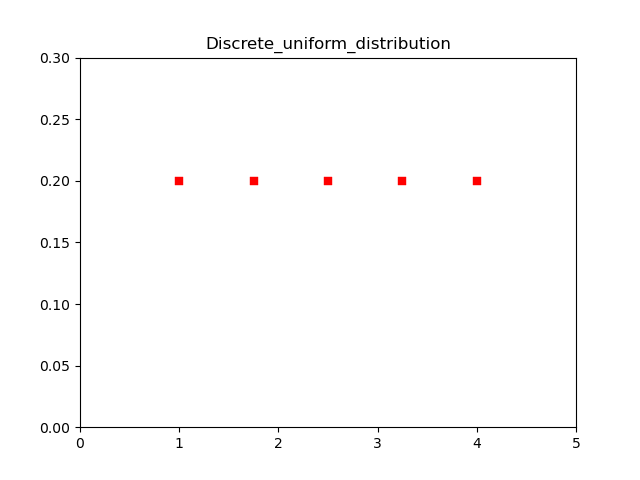
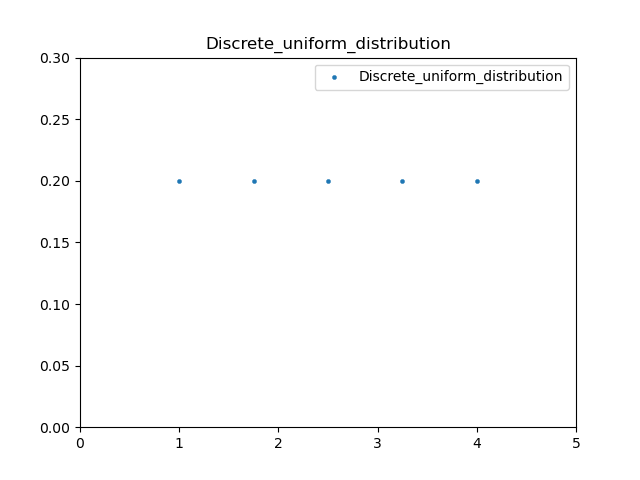
new

diff --git a/probDistribution.py b/probDistribution.py
@@ -5,6 +5,8 @@ import matplotlib.pyplot as plt
 from sympy import integrate
 import math
 from scipy.special import gamma,beta,factorial
+from permutationAndCom import permut,combinat
+
 #https://en.wikipedia.org/wiki/Gamma_function
 #https://en.wikipedia.org/wiki/Beta_function
 #https://en.wikipedia.org/wiki/Factorial
@@ -21,16 +23,36 @@ def plotSub(x,y,ax=None, aspect=False, label=''):
         ax.set_aspect(1)
     ax.legend()
 
-def scatterSub(x,y,ax=None,label='',marker=','):
-    ax.scatter(x,y,linewidths=.3,color='r',label=label,marker=marker)
-        
+def scatterSub(x,y,ax=None,label='',marker='.'):
+    ax.scatter(x,y,linewidths=.3, label=label, marker=marker)
+    ax.legend()
+    
 #'''''''''''''''''''''''''''''''''''distribution fuc'''''''''''''''''''''''''''''''''''''
 def Uniform_distribution(x,a=1,b=3): #https://en.wikipedia.org/wiki/Uniform_distribution_(continuous)
     return np.zeros(len(x)) + 1/(b-a)
 
 def Discrete_uniform_distribution(x,N=5):#https://en.wikipedia.org/wiki/Discrete_uniform_distribution
     return np.zeros(len(x)) + 1/N
-   
+
+def Binomial_distribution(N,p): #https://en.wikipedia.org/wiki/Binomial_distribution
+    assert(N>=1 and 0<=p<=1)
+    def Binomial(k):
+        return combinat(N,k)*np.power(p,k)*np.power(1-p,N-k)
+    
+    return list(map(Binomial, [i for i in range(N)]))
+    
+def Geometric_distribution(N,p):#https://en.wikipedia.org/wiki/Geometric_distribution
+    def Geometric(k):
+        return np.power(1-p,k)*p
+    
+    return list(map(Geometric, [i for i in range(N)]))
+
+def Hypergeometric_distribution(N,K,n): #https://en.wikipedia.org/wiki/Hypergeometric_distribution
+    def Hypergeometric(k):
+        return combinat(K,k)*combinat(N-K,n-k)/combinat(N,n)
+    
+    return list(map(Hypergeometric, [i for i in range(n)]))
+
 def NormalDistribution_pdf(x, delta=1, u=0): #https://en.wikipedia.org/wiki/Normal_distribution
     return (1/delta*np.sqrt(2*np.pi))*np.exp(-0.5*((x-u)/delta)**2)
   
@@ -95,6 +117,7 @@ def Rayleigh_distribution(x,delta=0.5):#https://en.wikipedia.org/wiki/Rayleigh_d
 def Beta_distribution(x,alpha=0.5,ba=0.5): #https://en.wikipedia.org/wiki/Beta_distribution
     return np.power(x, alpha-1)*np.power(1-x, ba-1)/beta(alpha,ba)
  
+ 
 #'''''''''''''''''''''''''''''''''''start plot distribution'''''''''''''''''''''''''''''''''''''
 imgSavePath=r'.\images\\'
 
@@ -117,13 +140,56 @@ def testUniform_distribution(i):
     plt.ylim(0.35, 0.6)
     plt.savefig(imgSavePath+'dsitribution{}.png'.format(i)), plt.show() 
     
+def testBinomial_distribution(i):
+    ax = plt.subplot(1,1,1)
+    plt.title('Binomial_distribution')
+    N = 15
+    plotSub(np.arange(N), Binomial_distribution(N=N,p=0.2), ax,label='N=15,p=0.2')
+    scatterSub(np.arange(N), Binomial_distribution(N=N,p=0.2), ax,label='N=15,p=0.2')
+    
+    plotSub(np.arange(N), Binomial_distribution(N=N,p=0.6), ax,label='N=15,p=0.6')
+    scatterSub(np.arange(N), Binomial_distribution(N=N,p=0.6), ax,label='N=15,p=0.6')
+    N = 20
+    plotSub(np.arange(N), Binomial_distribution(N=N,p=0.6), ax,label='N=20,p=0.6')
+    scatterSub(np.arange(N), Binomial_distribution(N=N,p=0.6), ax,label='N=20,p=0.6')
+    plt.savefig(imgSavePath+'dsitribution{}.png'.format(i))
+    plt.show() 
+    
+def testGeometric_distribution(i):
+    ax = plt.subplot(1,1,1)
+    plt.title('Geometric_distribution')
+    N = 15 
+    plotSub(np.arange(N), Geometric_distribution(N=N,p=0.2), ax,label='N=20,p=0.2')
+    scatterSub(np.arange(N), Geometric_distribution(N=N,p=0.2), ax,label='N=20,p=0.2')
+    
+    plotSub(np.arange(N), Geometric_distribution(N=N,p=0.5), ax,label='N=20,p=0.6')
+    scatterSub(np.arange(N), Geometric_distribution(N=N,p=0.5), ax,label='N=20,p=0.6')
+    
+    plotSub(np.arange(N), Geometric_distribution(N=N,p=0.8), ax,label='N=25,p=0.6')
+    scatterSub(np.arange(N), Geometric_distribution(N=N,p=0.8), ax,label='N=25,p=0.6')
+    plt.savefig(imgSavePath+'dsitribution{}.png'.format(i))
+    plt.show()
+   
+def testHypergeometric_distribution(i):
+    ax = plt.subplot(1,1,1)
+    plt.title('Hypergeometric_distribution')
+    N=25
+    K=10
+    n=5
+    plotSub(np.arange(n), Hypergeometric_distribution(N,K,n), ax,label='N=25,K=10,n=5')
+    scatterSub(np.arange(n), Hypergeometric_distribution(N,K,n), ax,label='N=25,K=10,n=5')
+    
+    plt.savefig(imgSavePath+'dsitribution{}.png'.format(i))
+    plt.show()
+     
+    
 def testNormalD(i):
     x = np.linspace(-5.0, 5.0, 100)
     #y = NormalDistribution_pdf(x)
     #plot(x,y)
     
     ax = plt.subplot(1,1,1)
-    plt.title('NormalDistribution')
+    plt.title('Normal Distribution')
     plotSub(x, NormalDistribution_pdf(x), ax,label='Normal')
     plotSub(x, NormalDistribution_pdf(x,u=-1,delta=0.5), ax,label='u=-1,delta=0.5')
     plotSub(x, NormalDistribution_pdf(x,u=1,delta=2), ax,label='u=1,delta=2')
@@ -132,7 +198,7 @@ def testNormalD(i):
 def testCauchy(i):
     x = np.linspace(-5.0, 5.0, 100)  
     ax = plt.subplot(1,1,1)
-    plt.title('Cauchy')
+    plt.title('Cauchy Distribution')
     #plotSub(x, Cauchy_pdf(x), ax,label='Cauchy')
     plotSub(x, Cauchy_pdf(x,x0=0,scaler=0.75), ax,label='x0=0,scaler=1')
     plotSub(x, Cauchy_pdf(x,x0=0,scaler=1), ax,label='x0=0,scaler=1')
@@ -251,6 +317,12 @@ def main():
     i+=1
     testUniform_distribution(i)
     i+=1
+    testBinomial_distribution(i)
+    i+=1
+    testGeometric_distribution(i)
+    i+=1
+    testHypergeometric_distribution(i)
+    i+=1
     testNormalD(i)
     i+=1
     testCauchy(i)
@@ -275,7 +347,7 @@ def main():
     i+=1
     testBeta_distribution(i)
     i+=1
-    pass
+   
     
 if __name__ == '__main__':
     main()

diff --git a/permutationAndCom.py b/permutationAndCom.py
@@ -1,0 +1,38 @@
+#Python3 Steven
+#permutation and combination
+import numpy as np
+from itertools import combinations, permutations
+
+def permut(N, m): #A{N,m}
+    return len(list(permutations(range(N),m)))
+
+    # l = len(array)
+    # p = list(permutations(range(l)))
+    # #p = np.array()
+    # # print('p=',p)
+    # # print(array[p,:])
+    # print('A_[{},{}]={}'.format(l, N, array[p, :]))
+    
+def combinat(N, m):
+    return len(list(combinations(range(N),m)))
+    #return combinations(range(N),m)
+
+def main():    
+    print('A_{4,3}=',list(permutations(range(4),3)))
+    print('C_{4,3}=',list(combinations(range(4),3)))
+    print('A_{3,2}=',list(permutations([1, 2, 3], 2)))
+    print('C_{3,2}=',list(combinations([1, 2, 3], 2)))
+
+    #A = np.array([[1, 2, 4]]) # np.array([[1, 2, 3, 4], [5, 6, 7, 8], [9, 10, 11, 12]])
+    #permut(A, 2)
+    
+    print(permut(5,2))
+    print(combinat(5,2))
+    
+    N=25
+    for i in range(N):
+        print('N,i,combinat=',N,i,combinat(N,i))
+    
+if __name__=='__main__':
+    main()
+    

diff --git a/README.md b/README.md
@@ -81,6 +81,9 @@ testLogisticMap(butterfly effect)
 <img src="images/dsitribution11.png" width="320" height="240">
 <img src="images/dsitribution12.png" width="320" height="240">
 <img src="images/dsitribution13.png" width="320" height="240">
+<img src="images/dsitribution14.png" width="320" height="240">
+<img src="images/dsitribution15.png" width="320" height="240">
+<img src="images/dsitribution16.png" width="320" height="240">
 <br/>
 
 ## ./Fractal/
